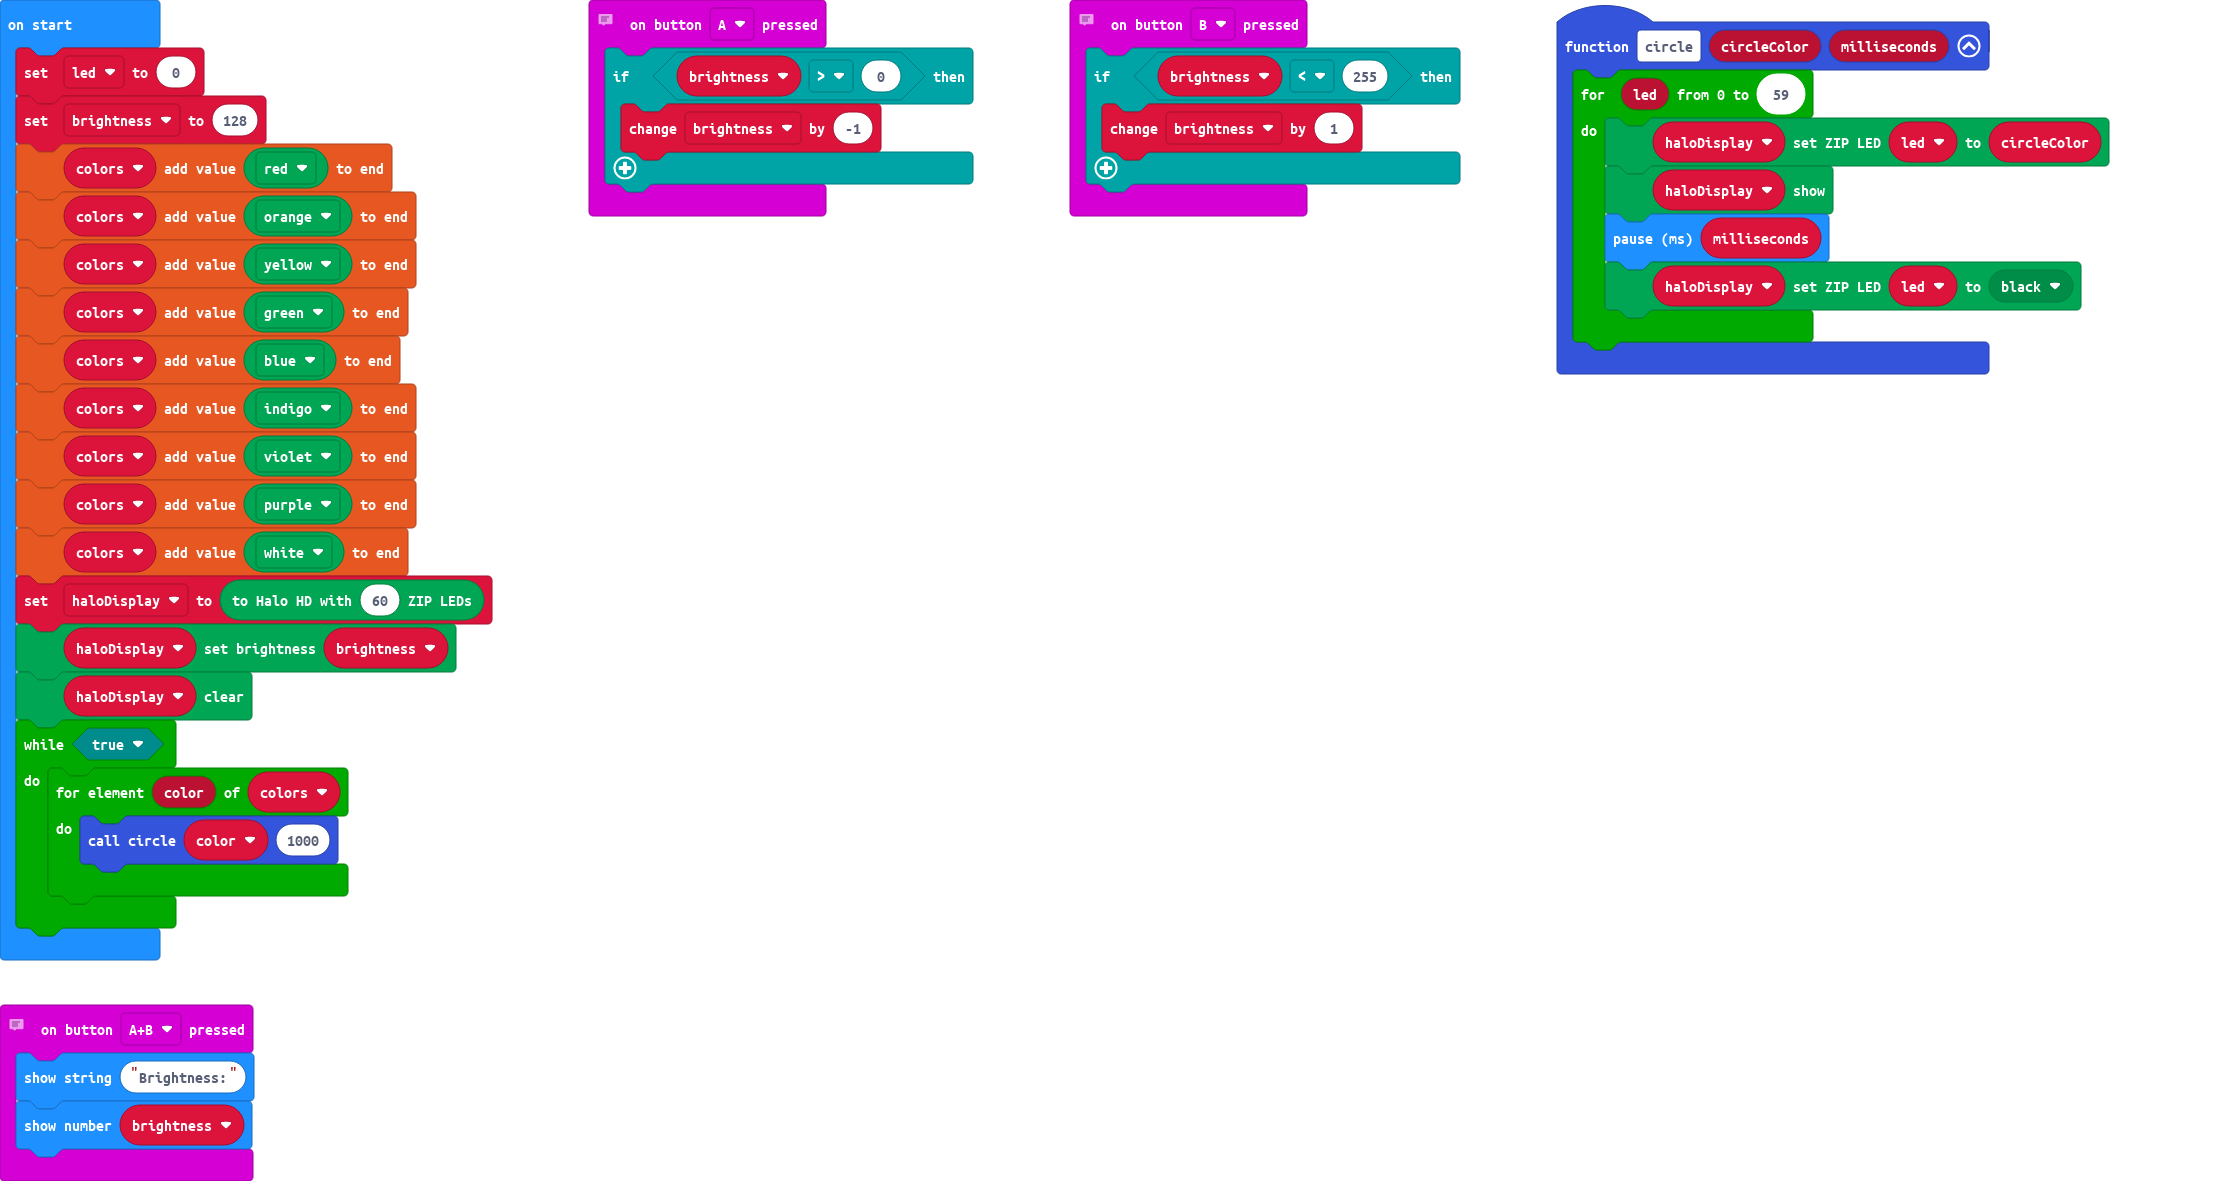
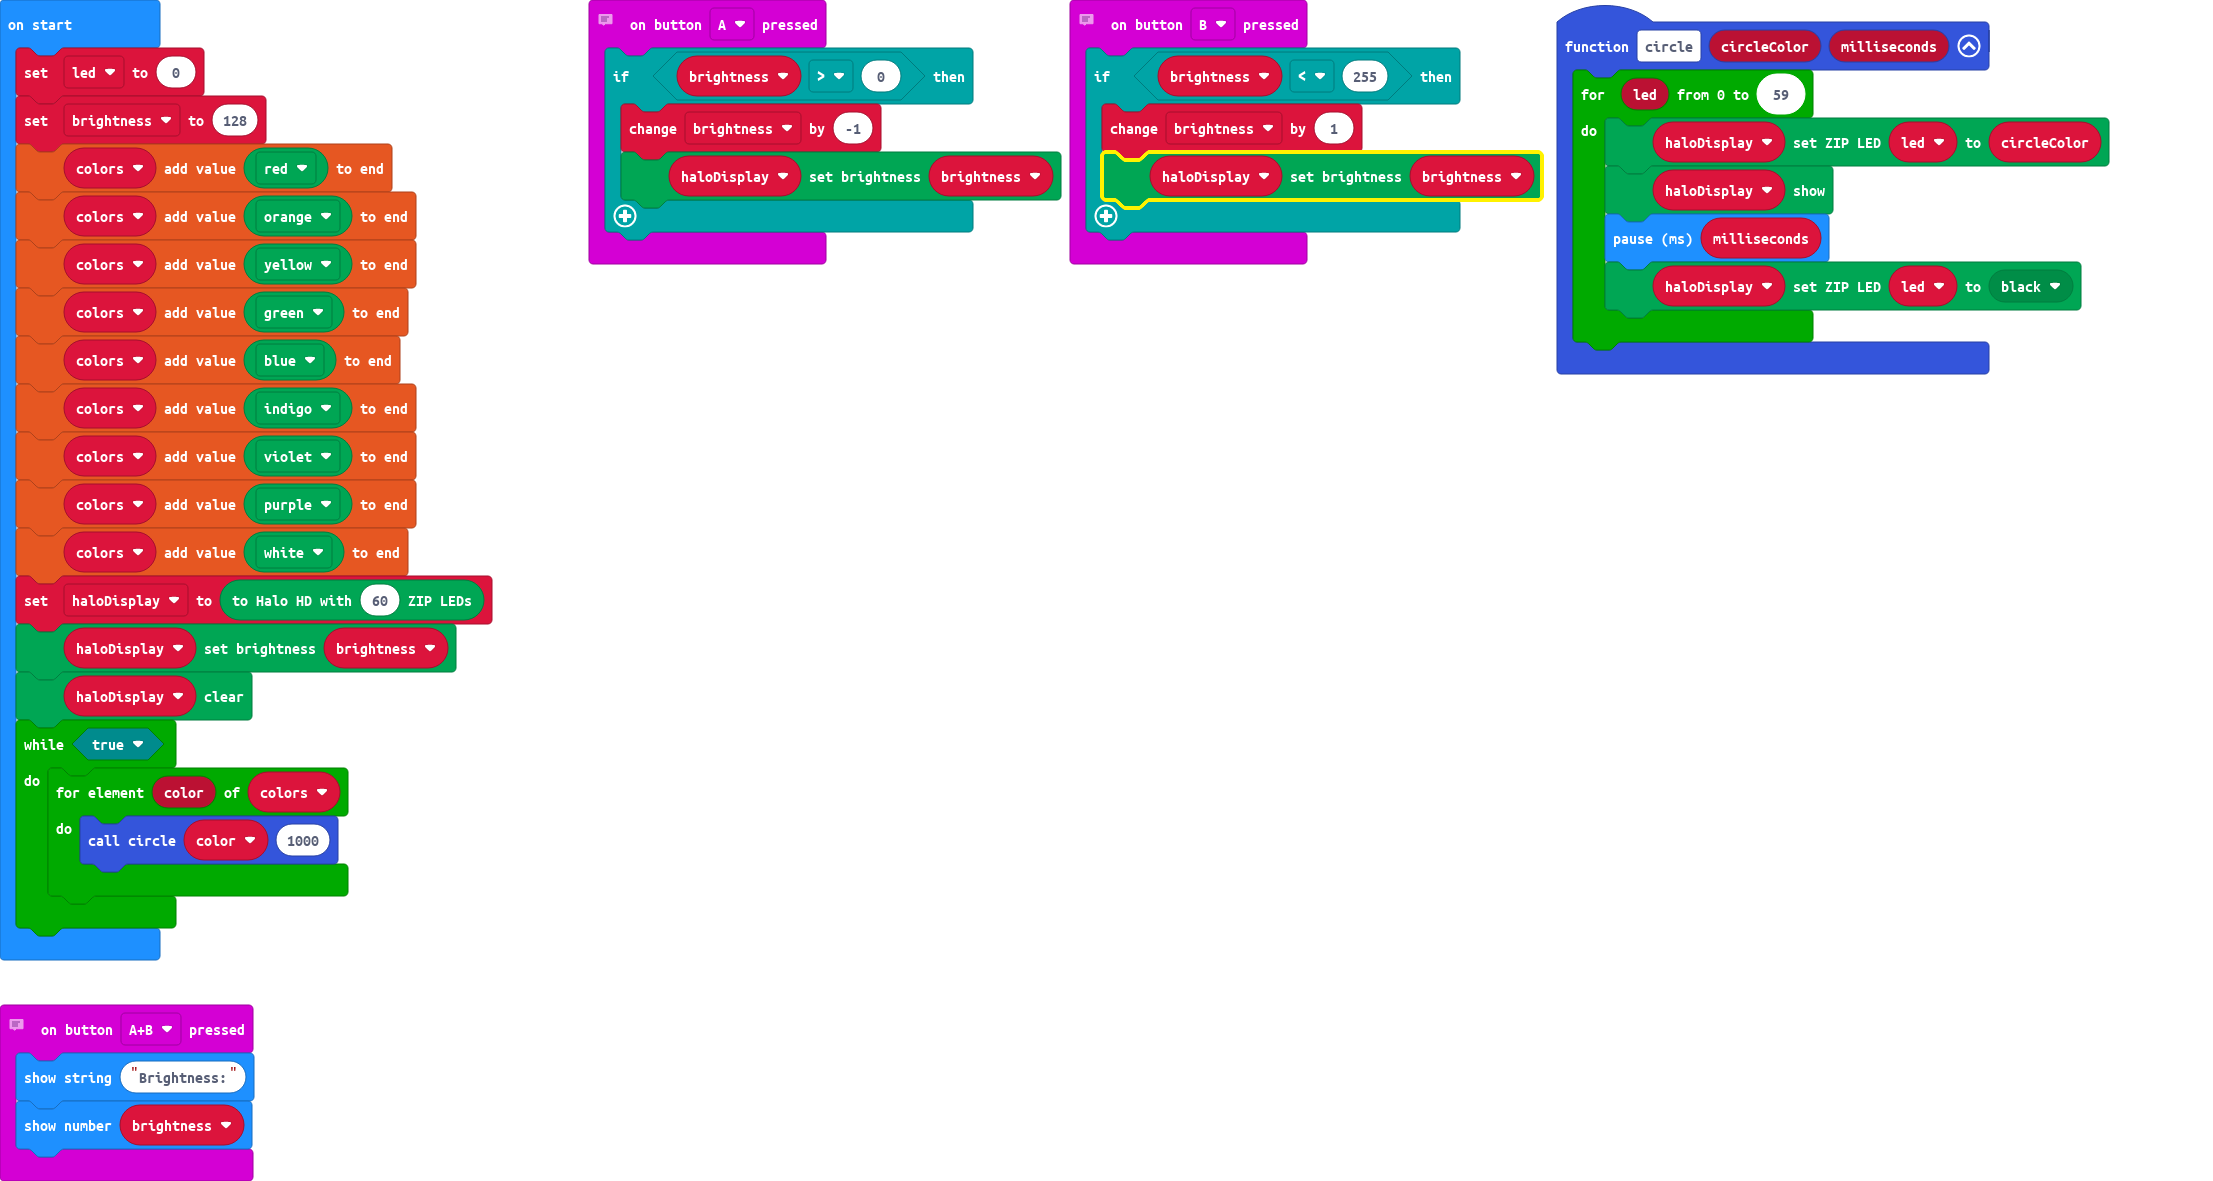
Changes in brightness take effect.

Changed region(s): [[0.2494, 0.1219, 0.7171, 0.2439]]

diff --git a/main.ts b/main.ts
@@ -10,6 +10,7 @@ function circle (circleColor: number, milliseconds: number) {
 input.onButtonPressed(Button.A, function () {
     if (brightness > 0) {
         brightness += -1
+        haloDisplay.setBrightness(brightness)
     }
 })
 // Press button B to increase the brightness of the LED
@@ -21,6 +22,7 @@ input.onButtonPressed(Button.AB, function () {
 input.onButtonPressed(Button.B, function () {
     if (brightness < 255) {
         brightness += 1
+        haloDisplay.setBrightness(brightness)
     }
 })
 let haloDisplay: kitronik_halo_hd.ZIPHaloHd = null
